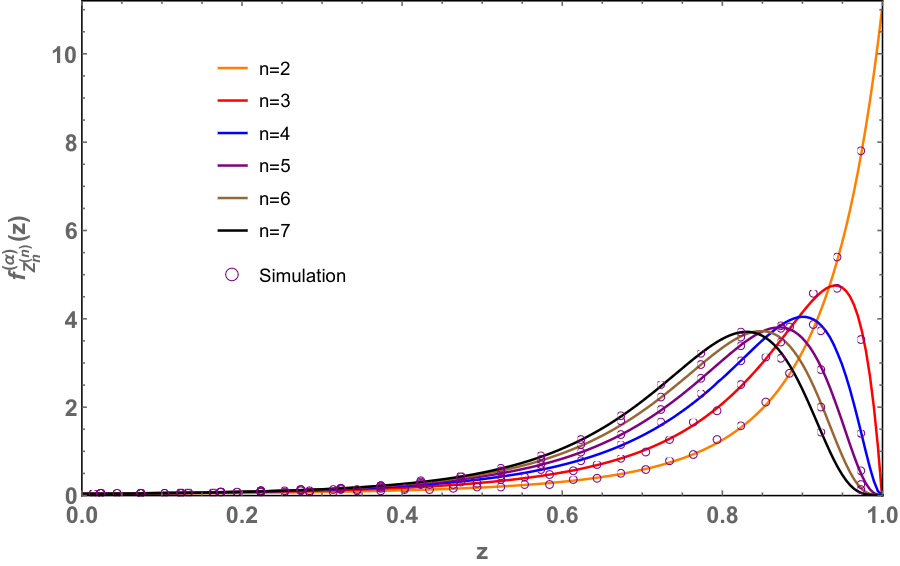
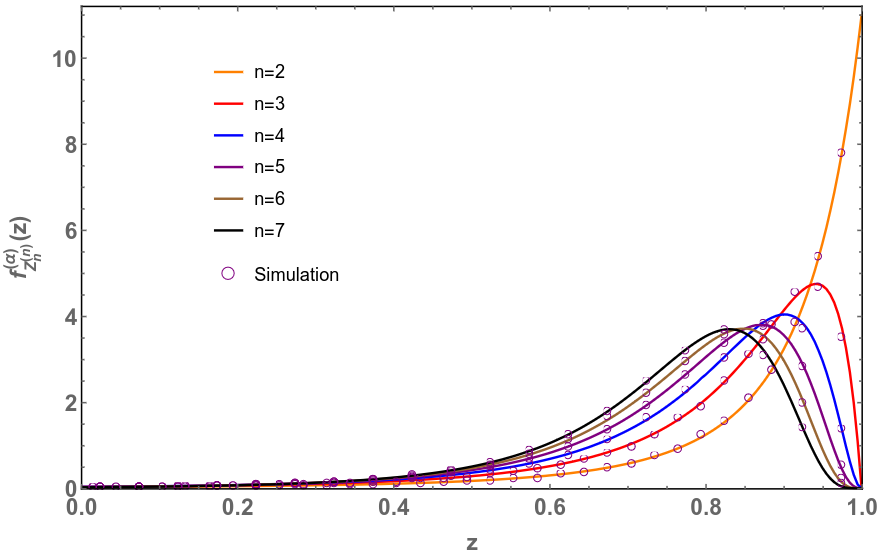
aa

diff --git a/_projects/proj_wishart_eigensys.md b/_projects/proj_wishart_eigensys.md
@@ -1,6 +1,6 @@
 ---
 layout: page
-title: Properties of single-spiked centralized complex Wishart matrices
+title: Properties of centralized single-spiked complex Wishart matrices
 description: Studied the properties (distributions corresponding to statistics) of centralized complex Wishart matrices with a single-spiked covariance structure
 img: assets/img/rank1_wishart/trace_over_min.png
 importance: 2
@@ -43,4 +43,24 @@ where $$\lambda_i$$'s denote the ordered eigenvalues of $$XX^H$$, with $$\lambda
 
 
 
-Next, we focused on the properties of the eigenvectors of single-spiked centralized complex Wishart matrices. Accordingly, the  
+Next, we focused on the properties of the eigenvectors of centralized single-spiked complex Wishart matrices. Accordingly, the distributions of the test statistic $$Z_k^{(n)}=|u^Hv_k|^2$$ were studied, where $$v_k$$ denothes the $$k^\text{th}$$ eigenvector of $$XX^H$. Specifically, we focused on the cases $$k=1$$ and $$k=n$$. The results were verified through simulations as before, including Quantile-Quantile plots for theoretical and empirical quantiles, which demonstrates the agreement better in-case of highly skewed distributions such as the ones observed here.
+
+<div class="row">
+    <div class="col-sm mt-3 mt-md-0">
+        {% include figure.html path="assets/img/rank1_wishart/max_eigvector.png" title="example image" class="img-fluid rounded" %}
+    </div>
+</div>
+<div class="caption">
+    Comparison of simulated data points and the analytical p.d.f.
+</div>
+
+<div class="row">
+    <div class="col-sm mt-3 mt-md-0">
+        {% include figure.html path="assets/img/rank1_wishart/max_eigvec_qqplot.png" title="example image" class="img-fluid rounded" %}
+    </div>
+</div>
+<div class="caption">
+    Quantile-quantile plots - sample quantiles vs theoretical quantiles
+</div>
+
+All the simulations corresponding to these studies were carried-out using Mathematica. The notebooks can be found on Github at: 
